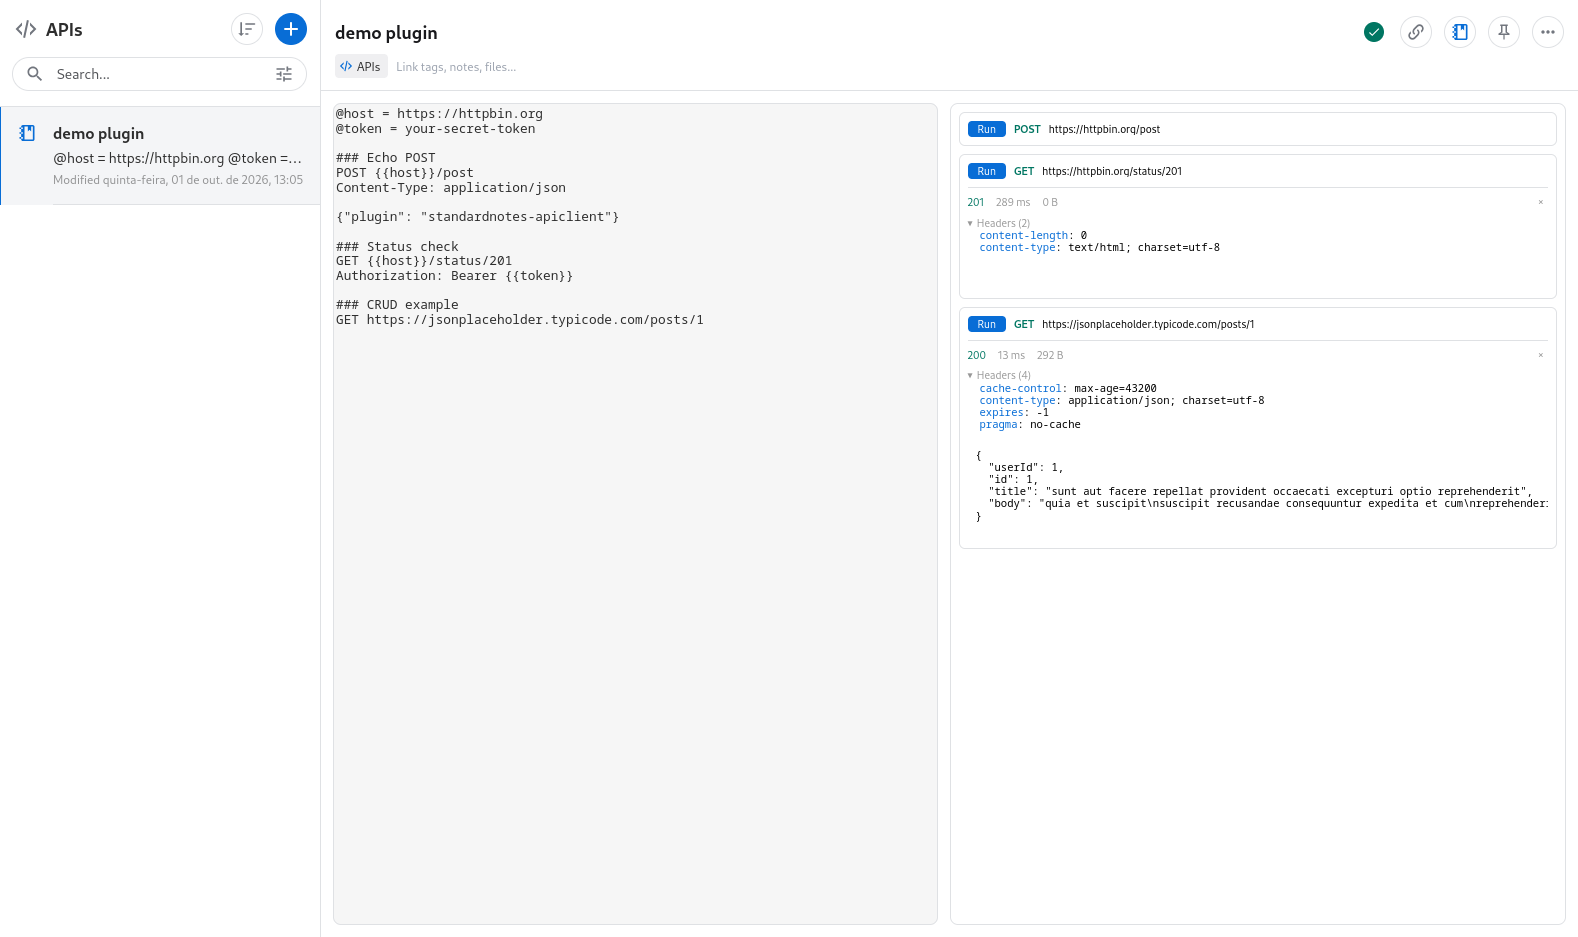
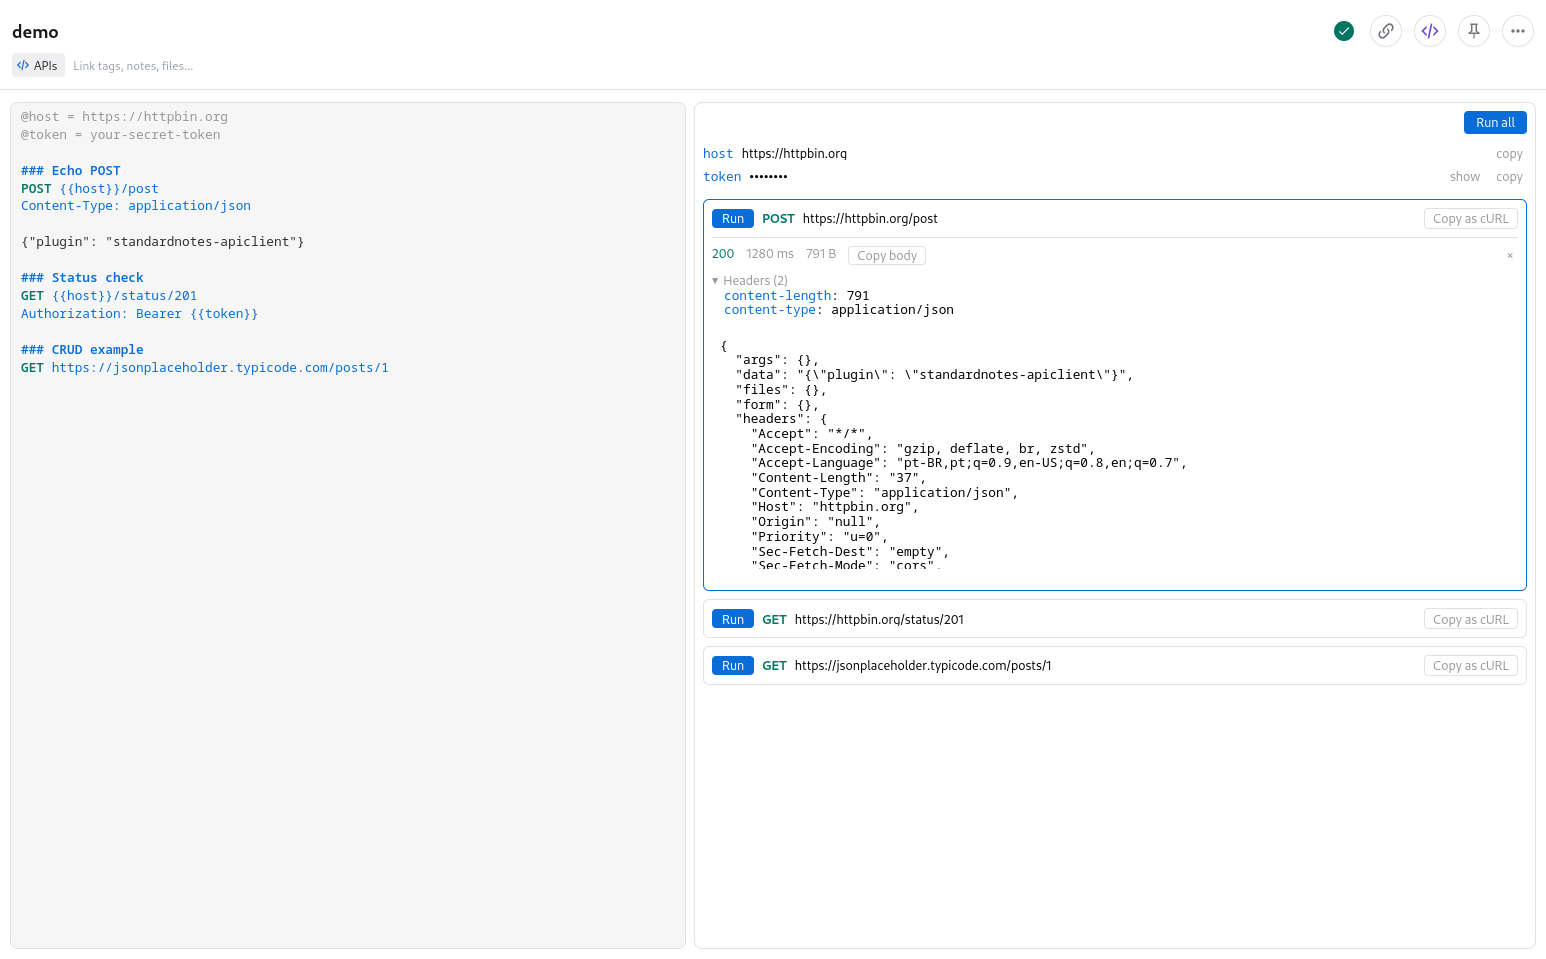
docs: show the current UI in both themes
Replace the v0.1 era screenshot (text on the right, cramped panel)
with captures of the current editor in the light and dark themes,
which the README already claims the editor follows.

diff --git a/README.md b/README.md
@@ -12,7 +12,9 @@ kulala.nvim) inside the note, so they stay readable, searchable, exportable
 and portable. API tokens, payloads and variables benefit from native
 end-to-end encryption, unlike typical web-based REST clients.
 
-![API client editor running inside Standard Notes](public/demo.png)
+![API client editor running inside Standard Notes, light theme](public/demo.png)
+
+![API client editor running inside Standard Notes, dark theme](public/demo-dark.png)
 
 ## Features
 
